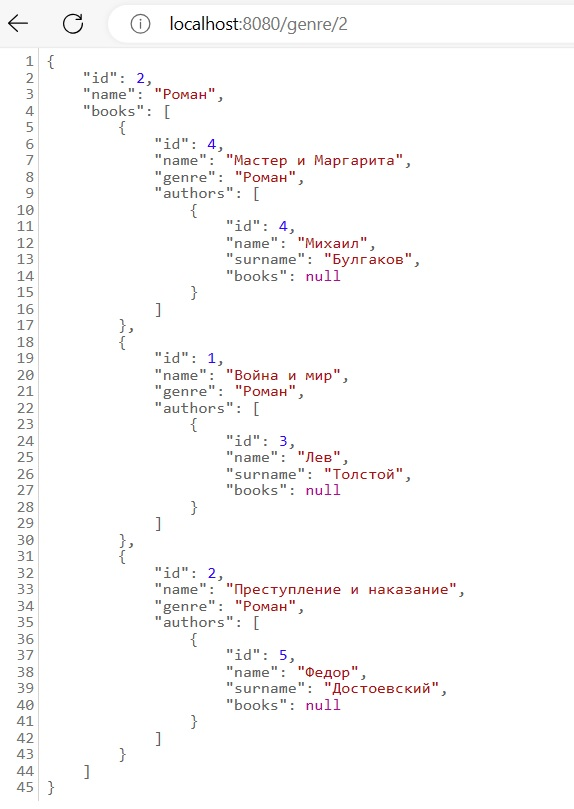
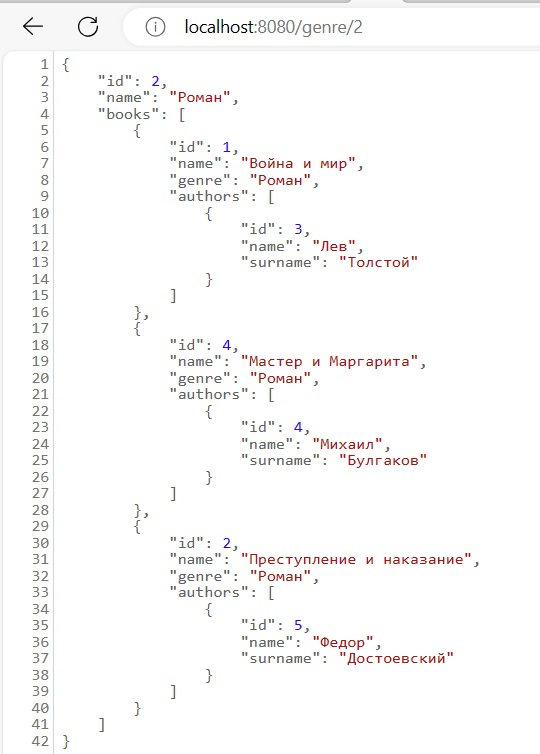
3 different methods searching author by name were added in classes AuthorService, AuthorServiceImpl, AuthorController. 3 different methods searching book by name were added in classes BookService, BookServiceImpl, BookController. The first method searches author/book using autogeneration of a query.

diff --git a/src/main/java/usa/badratdinova/libraryproject/service/AuthorServiceImpl.java b/src/main/java/usa/badratdinova/libraryproject/service/AuthorServiceImpl.java
@@ -1,9 +1,15 @@
 package usa.badratdinova.libraryproject.service;
 
+import jakarta.persistence.criteria.CriteriaBuilder;
+import jakarta.persistence.criteria.CriteriaQuery;
+import jakarta.persistence.criteria.Predicate;
+import jakarta.persistence.criteria.Root;
 import lombok.RequiredArgsConstructor;
+import org.springframework.data.jpa.domain.Specification;
 import org.springframework.stereotype.Service;
 import usa.badratdinova.libraryproject.dto.AuthorDto;
 import usa.badratdinova.libraryproject.dto.BookDto;
+import usa.badratdinova.libraryproject.dto.BookDto2;
 import usa.badratdinova.libraryproject.model.Author;
 import usa.badratdinova.libraryproject.repository.AuthorRepository;
 
@@ -21,10 +27,38 @@ public class AuthorServiceImpl implements AuthorService {
         return convertToDto(author);
     }
 
+    @Override
+    public AuthorDto getAuthorByNameV1(String name) {
+        Author author = authorRepository.findAuthorByName(name).orElseThrow();
+        return convertToDto(author);
+    }
+
+    @Override
+    public AuthorDto getAuthorByNameV2(String name) {
+        Author author = authorRepository.findAuthorByNameBySql(name).orElseThrow();
+        return convertToDto(author);
+    }
+
+    @Override
+    public AuthorDto getAuthorByNameV3(String name) {
+        Specification<Author> specification = Specification.where(
+                new Specification<Author>() {
+                    @Override
+                    public Predicate toPredicate(Root<Author> root,
+                                                 CriteriaQuery<?> query,
+                                                 CriteriaBuilder cb) {
+                        return cb.equal(root.get("name"), name);
+                    }
+                }
+        );
+        Author author = authorRepository.findOne(specification).orElseThrow();
+        return convertToDto(author);
+    }
+
     private AuthorDto convertToDto(Author author) {
-        List<BookDto> bookDtoList = author.getBooks()
+        List<BookDto2> bookDtoList = author.getBooks()
                 .stream()
-                .map(book -> BookDto.builder()
+                .map(book -> BookDto2.builder()
                         .genre(book.getGenre().getName())
                         .name(book.getName())
                         .id(book.getId())

diff --git a/src/main/java/usa/badratdinova/libraryproject/service/BookServiceImpl.java b/src/main/java/usa/badratdinova/libraryproject/service/BookServiceImpl.java
@@ -1,0 +1,55 @@
+package usa.badratdinova.libraryproject.service;
+
+import jakarta.persistence.criteria.CriteriaBuilder;
+import jakarta.persistence.criteria.CriteriaQuery;
+import jakarta.persistence.criteria.Predicate;
+import jakarta.persistence.criteria.Root;
+import lombok.RequiredArgsConstructor;
+import org.springframework.data.jpa.domain.Specification;
+import org.springframework.stereotype.Service;
+import usa.badratdinova.libraryproject.dto.BookDto2;
+import usa.badratdinova.libraryproject.model.Book;
+import usa.badratdinova.libraryproject.repository.BookRepository;
+
+@Service
+@RequiredArgsConstructor
+public class BookServiceImpl implements BookService {
+
+    private final BookRepository bookRepository;
+
+    @Override
+    public BookDto2 getByNameV1(String name) {
+        Book book = bookRepository.findBookByName(name).orElseThrow();
+        return convertEntityToDto(book);
+    }
+
+    @Override
+    public BookDto2 getByNameV2(String name) {
+        Book book = bookRepository.findBookByNameBySql(name).orElseThrow();
+        return convertEntityToDto(book);
+    }
+
+    @Override
+    public BookDto2 getByNameV3(String name) {
+        Specification<Book> specification = Specification.where(
+                new Specification<Book>() {
+                    @Override
+                    public Predicate toPredicate(Root<Book> root,
+                                                 CriteriaQuery<?> query,
+                                                 CriteriaBuilder cb) {
+                        return cb.equal(root.get("name"), name);
+                    }
+                }
+        );
+        Book book = bookRepository.findOne(specification).orElseThrow();
+        return convertEntityToDto(book);
+    }
+
+    private BookDto2 convertEntityToDto(Book book) {
+        return BookDto2.builder()
+                .id(book.getId())
+                .genre(book.getGenre().getName())
+                .name(book.getName())
+                .build();
+    }
+}

diff --git a/src/main/java/usa/badratdinova/libraryproject/controller/AuthorController.java b/src/main/java/usa/badratdinova/libraryproject/controller/AuthorController.java
@@ -3,6 +3,7 @@ package usa.badratdinova.libraryproject.controller;
 import lombok.RequiredArgsConstructor;
 import org.springframework.web.bind.annotation.GetMapping;
 import org.springframework.web.bind.annotation.PathVariable;
+import org.springframework.web.bind.annotation.RequestParam;
 import org.springframework.web.bind.annotation.RestController;
 import usa.badratdinova.libraryproject.dto.AuthorDto;
 import usa.badratdinova.libraryproject.service.AuthorService;
@@ -16,5 +17,20 @@ public class AuthorController {
     @GetMapping("/author/{id}")
     AuthorDto getAuthorById(@PathVariable("id") Long id) {
         return authorService.getAuthorById(id);
+    }
+
+    @GetMapping("/author/v1")
+    AuthorDto getAuthorByNameV1(@RequestParam("name") String name) {
+        return authorService.getAuthorByNameV1(name);
+    }
+
+    @GetMapping("/author/v2")
+    AuthorDto getAuthorByNameV2(@RequestParam("name") String name) {
+        return authorService.getAuthorByNameV2(name);
+    }
+
+    @GetMapping("/author/v3")
+    AuthorDto getAuthorByNameV3(@RequestParam("name") String name) {
+        return authorService.getAuthorByNameV3(name);
     }
 }

diff --git a/src/main/java/usa/badratdinova/libraryproject/controller/BookController.java b/src/main/java/usa/badratdinova/libraryproject/controller/BookController.java
@@ -1,0 +1,30 @@
+package usa.badratdinova.libraryproject.controller;
+
+import lombok.RequiredArgsConstructor;
+import org.springframework.web.bind.annotation.GetMapping;
+import org.springframework.web.bind.annotation.RequestParam;
+import org.springframework.web.bind.annotation.RestController;
+import usa.badratdinova.libraryproject.dto.BookDto2;
+import usa.badratdinova.libraryproject.service.BookService;
+
+@RestController
+@RequiredArgsConstructor
+public class BookController {
+
+    private final BookService bookService;
+
+    @GetMapping("/book")
+    BookDto2 getBookByName(@RequestParam("name") String name) {
+        return bookService.getByNameV1(name);
+    }
+
+    @GetMapping("/book/v2")
+    BookDto2 getBookByNameV2(@RequestParam("name") String name) {
+        return bookService.getByNameV2(name);
+    }
+
+    @GetMapping("/book/v3")
+    BookDto2 getBookByNameV3(@RequestParam("name") String name) {
+        return bookService.getByNameV3(name);
+    }
+}

diff --git a/src/main/java/usa/badratdinova/libraryproject/service/GenreServiceImpl.java b/src/main/java/usa/badratdinova/libraryproject/service/GenreServiceImpl.java
@@ -2,7 +2,7 @@ package usa.badratdinova.libraryproject.service;
 
 import lombok.RequiredArgsConstructor;
 import org.springframework.stereotype.Service;
-import usa.badratdinova.libraryproject.dto.AuthorDto;
+import usa.badratdinova.libraryproject.dto.AuthorDto2;
 import usa.badratdinova.libraryproject.dto.BookDto;
 import usa.badratdinova.libraryproject.dto.GenreDto;
 import usa.badratdinova.libraryproject.model.Genre;
@@ -31,7 +31,7 @@ public class GenreServiceImpl implements GenreService {
                         .id(book.getId())
                         .authors(book.getAuthors()
                                 .stream()
-                                .map(author -> AuthorDto.builder()
+                                .map(author -> AuthorDto2.builder()
                                         .id(author.getId())
                                         .name(author.getName())
                                         .surname(author.getSurname())

diff --git a/src/main/java/usa/badratdinova/libraryproject/repository/AuthorRepository.java b/src/main/java/usa/badratdinova/libraryproject/repository/AuthorRepository.java
@@ -1,7 +1,15 @@
 package usa.badratdinova.libraryproject.repository;
 
 import org.springframework.data.jpa.repository.JpaRepository;
+import org.springframework.data.jpa.repository.JpaSpecificationExecutor;
+import org.springframework.data.jpa.repository.Query;
 import usa.badratdinova.libraryproject.model.Author;
 
-public interface AuthorRepository extends JpaRepository<Author, Long> {
+import java.util.Optional;
+
+public interface AuthorRepository extends JpaRepository<Author, Long>, JpaSpecificationExecutor<Author> {
+    Optional<Author> findAuthorByName(String name);
+
+    @Query(nativeQuery = true, value = "SELECT * FROM AUTHOR WHERE name = ?")
+    Optional<Author> findAuthorByNameBySql(String name);
 }

diff --git a/src/main/java/usa/badratdinova/libraryproject/repository/BookRepository.java b/src/main/java/usa/badratdinova/libraryproject/repository/BookRepository.java
@@ -1,7 +1,15 @@
 package usa.badratdinova.libraryproject.repository;
 
 import org.springframework.data.jpa.repository.JpaRepository;
+import org.springframework.data.jpa.repository.JpaSpecificationExecutor;
+import org.springframework.data.jpa.repository.Query;
 import usa.badratdinova.libraryproject.model.Book;
 
-public interface BookRepository extends JpaRepository<Book, Long> {
+import java.util.Optional;
+
+public interface BookRepository extends JpaRepository<Book, Long>, JpaSpecificationExecutor<Book> {
+    Optional<Book> findBookByName(String name);
+
+    @Query(nativeQuery = true, value = "SELECT * FROM BOOK WHERE name = ?")
+    Optional<Book> findBookByNameBySql(String name);
 }

diff --git a/src/main/java/usa/badratdinova/libraryproject/dto/AuthorDto2.java b/src/main/java/usa/badratdinova/libraryproject/dto/AuthorDto2.java
@@ -5,15 +5,12 @@ import lombok.Builder;
 import lombok.Data;
 import lombok.NoArgsConstructor;
 
-import java.util.List;
-
 @AllArgsConstructor
 @NoArgsConstructor
 @Data
 @Builder
-public class BookDto {
+public class AuthorDto2 {
     private Long id;
     private String name;
-    private String genre;
-    private List<AuthorDto2> authors;
+    private String surname;
 }

diff --git a/src/main/java/usa/badratdinova/libraryproject/dto/BookDto2.java b/src/main/java/usa/badratdinova/libraryproject/dto/BookDto2.java
@@ -5,15 +5,12 @@ import lombok.Builder;
 import lombok.Data;
 import lombok.NoArgsConstructor;
 
-import java.util.List;
-
 @AllArgsConstructor
 @NoArgsConstructor
 @Data
 @Builder
-public class BookDto {
+public class BookDto2 {
     private Long id;
     private String name;
     private String genre;
-    private List<AuthorDto2> authors;
 }

diff --git a/src/main/java/usa/badratdinova/libraryproject/service/BookService.java b/src/main/java/usa/badratdinova/libraryproject/service/BookService.java
@@ -1,0 +1,12 @@
+package usa.badratdinova.libraryproject.service;
+
+import usa.badratdinova.libraryproject.dto.BookDto;
+import usa.badratdinova.libraryproject.dto.BookDto2;
+
+public interface BookService {
+    BookDto2 getByNameV1(String name);
+
+    BookDto2 getByNameV2(String name);
+
+    BookDto2 getByNameV3(String name);
+}

diff --git a/src/main/java/usa/badratdinova/libraryproject/service/AuthorService.java b/src/main/java/usa/badratdinova/libraryproject/service/AuthorService.java
@@ -4,4 +4,10 @@ import usa.badratdinova.libraryproject.dto.AuthorDto;
 
 public interface AuthorService {
     AuthorDto getAuthorById(Long id);
+
+    AuthorDto getAuthorByNameV1(String name);
+
+    AuthorDto getAuthorByNameV2(String name);
+
+    AuthorDto getAuthorByNameV3(String name);
 }

diff --git a/src/main/java/usa/badratdinova/libraryproject/dto/AuthorDto.java b/src/main/java/usa/badratdinova/libraryproject/dto/AuthorDto.java
@@ -15,5 +15,5 @@ public class AuthorDto {
     private Long id;
     private String name;
     private String surname;
-    private List<BookDto> books;
+    private List<BookDto2> books;
 }
